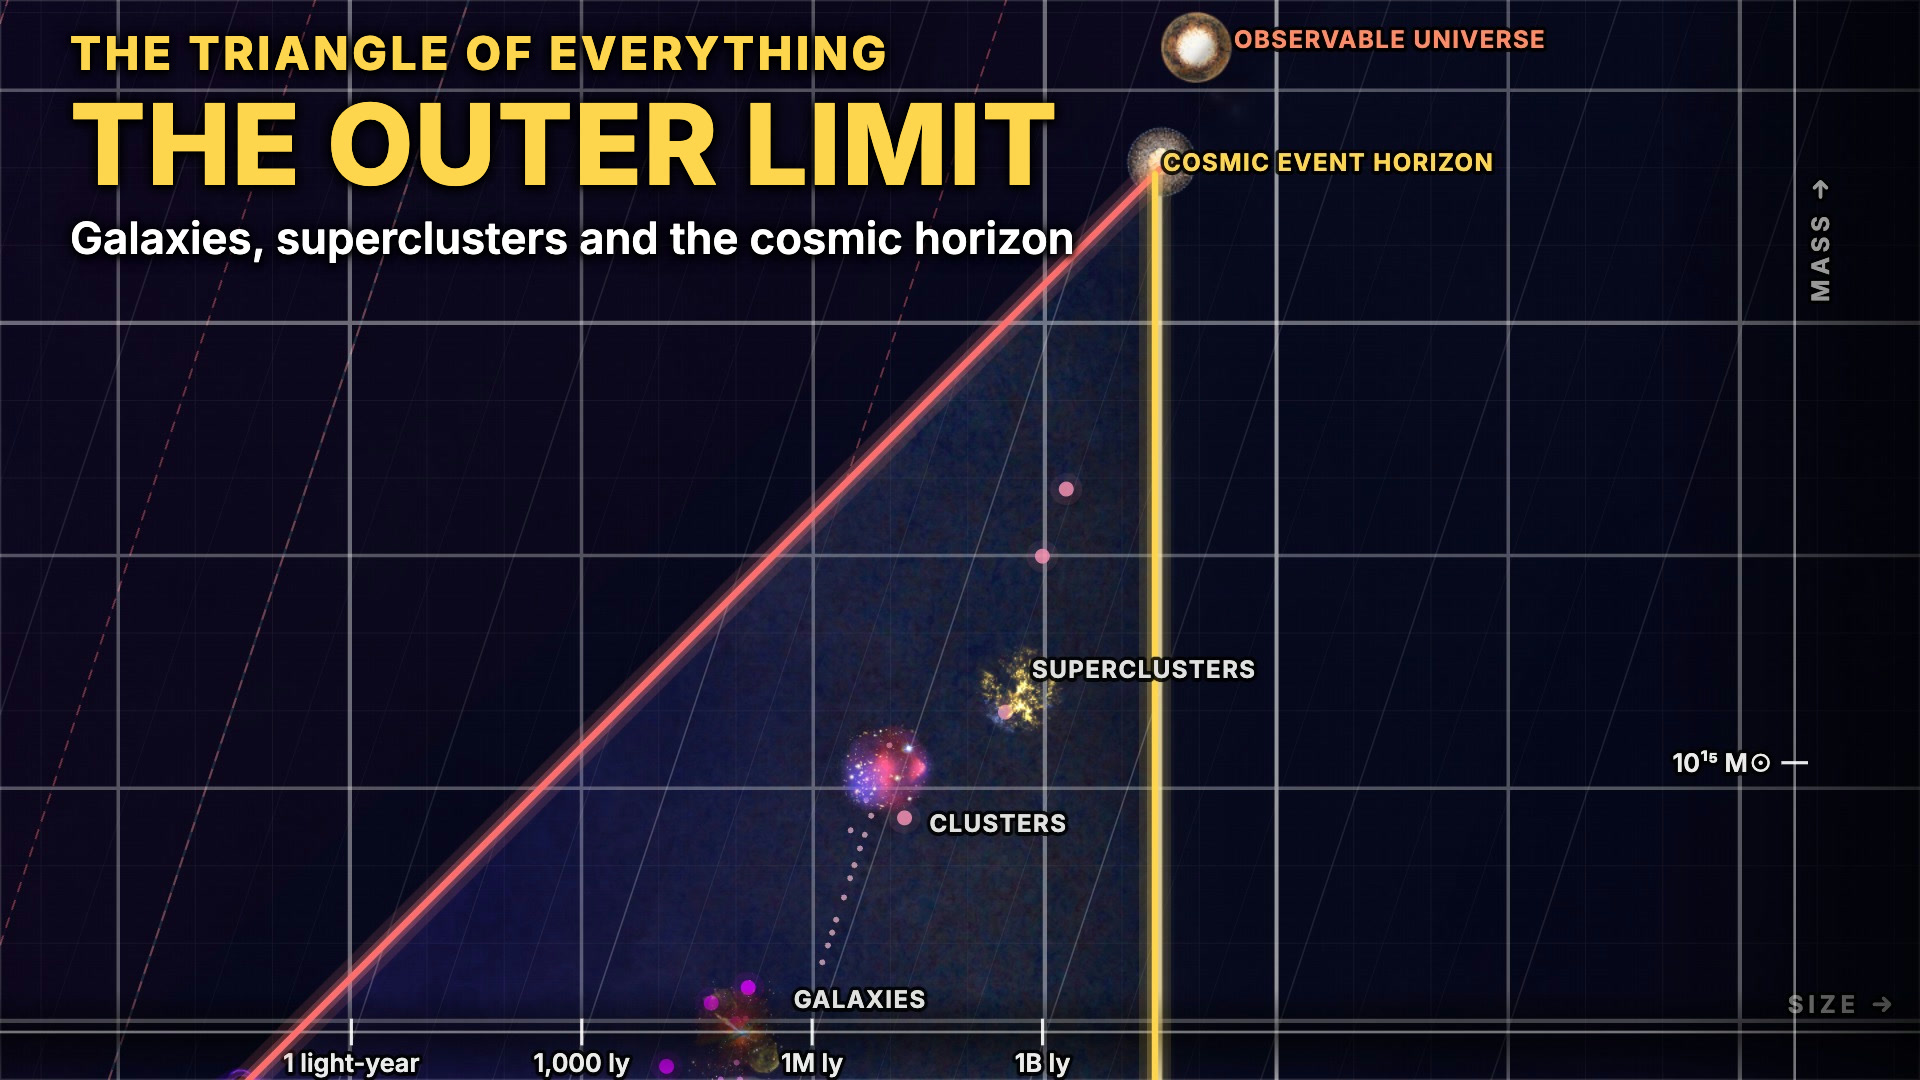
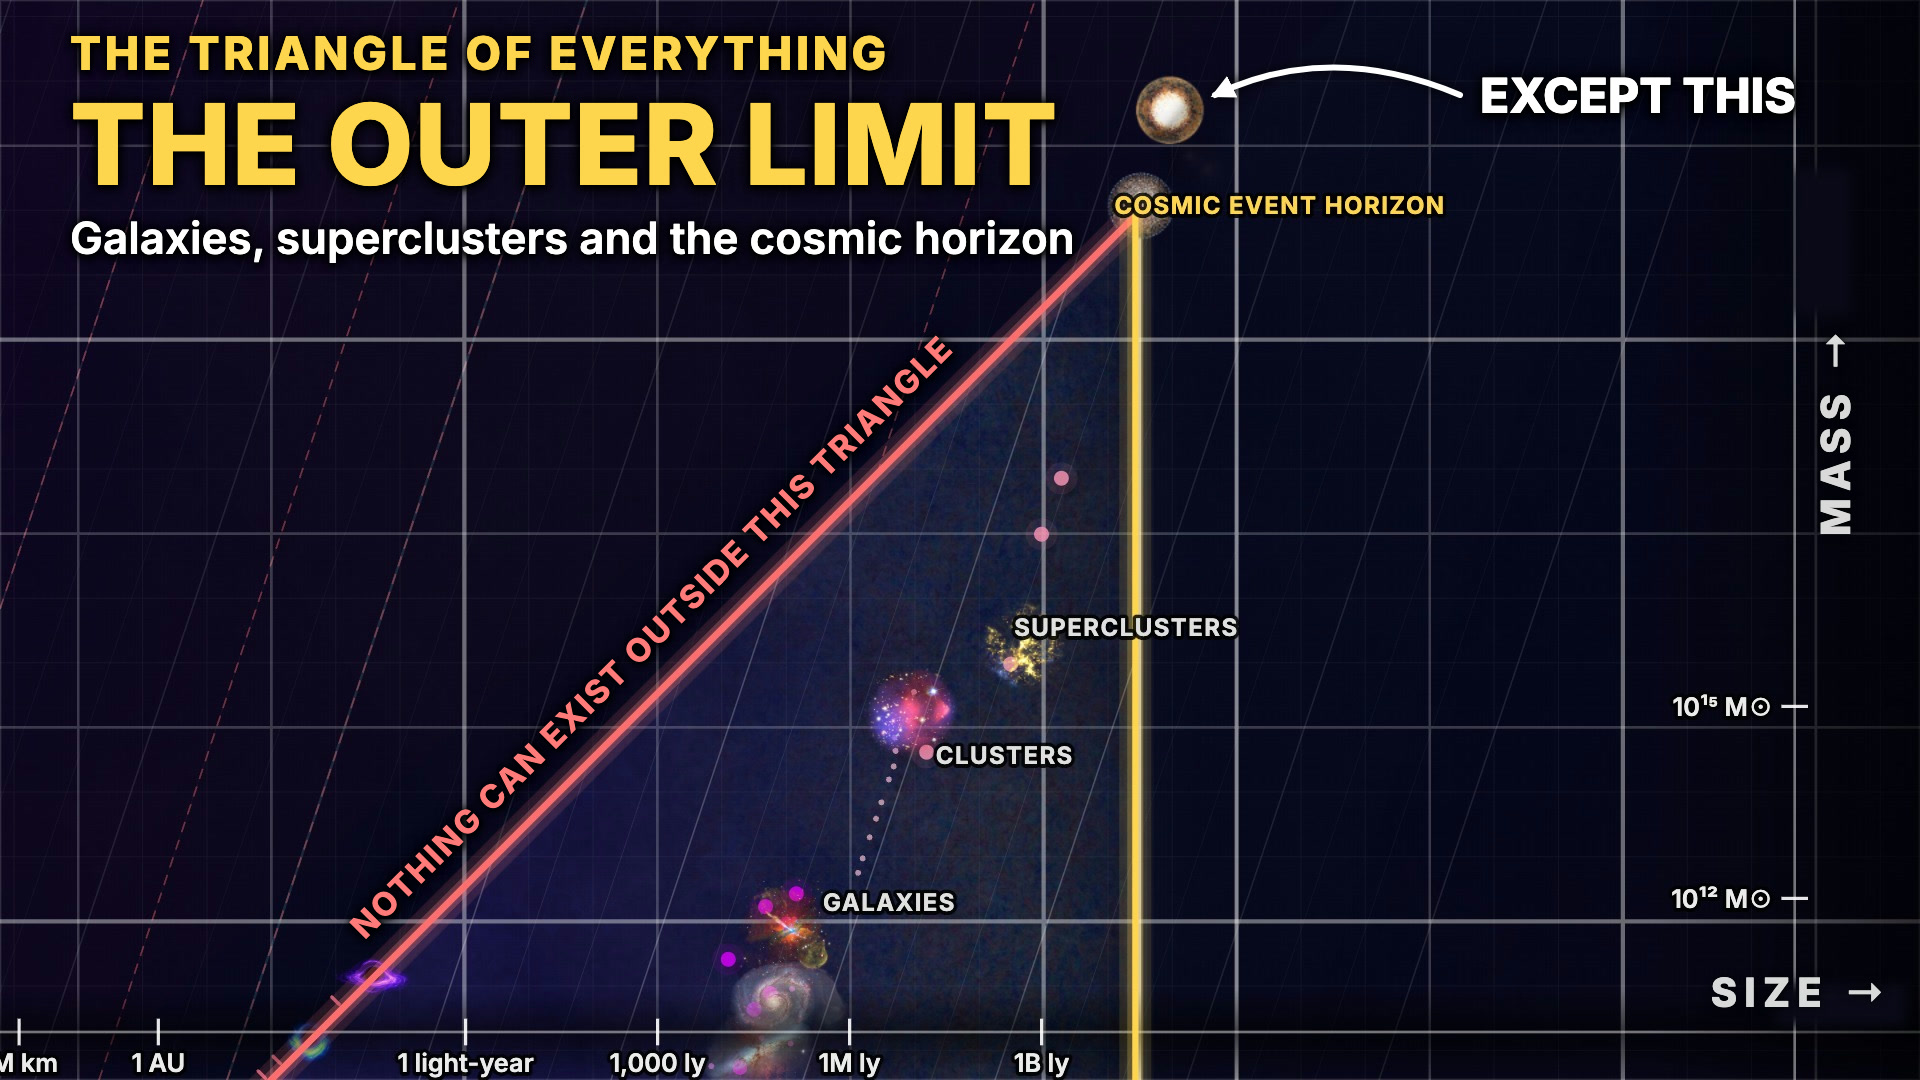
Outer Limit thumbnail v2: zoomed out, "Nothing can exist outside this triangle" on the black-hole line, an arrow to the observable universe "Except this" (its name left a mystery), larger MASS and SIZE (the author, 2026-11-27)

Changed region(s): [[0.0, 0.0, 1.0, 1.0], [0.125, 0.55, 0.1562, 0.6111], [0.0312, 0.0, 0.0625, 0.0306]]

diff --git a/src/narration-scenes/long-02c-space-right.js b/src/narration-scenes/long-02c-space-right.js
@@ -9,7 +9,7 @@
 const T = (text, at, size, color) => ({ text, at, size, ...(color ? { color } : {}), instant: true });
 
 export default {
-  posterWide: { at: 3, set: { iconSize: 34 }, cues: [{ t: 0, cam: { r: 25.6, m: 51.2, span: 25 }, dur: 0.1, drift: 0, bg: { to: 1, dur: 0.01 },
+  posterWide: { at: 3, set: { iconSize: 34 }, cues: [{ t: 0, cam: { r: 25.4, m: 50.9, span: 30 }, dur: 0.1, drift: 0, bg: { to: 1, dur: 0.01 },
     hideObjects: [], hideIcons: ["Boötes Void", "Eridanus Supervoid", "KBC Void"], hl: [
     { line: "schwarzschild", instant: true },
     { line: "hubble", instant: true },
@@ -17,6 +17,5 @@ export default {
     T("clusters", [26.1, 47.4], 9, "#e0e0e0"),
     T("superclusters", [28.0, 49.4], 9, "#e0e0e0"),
     T("cosmic event horizon", [30.4, 56.0], 9, "#ffd54f"),
-    T("observable universe", [31.2, 57.6], 9, "#ff8a65"),
   ] }] },
 };
